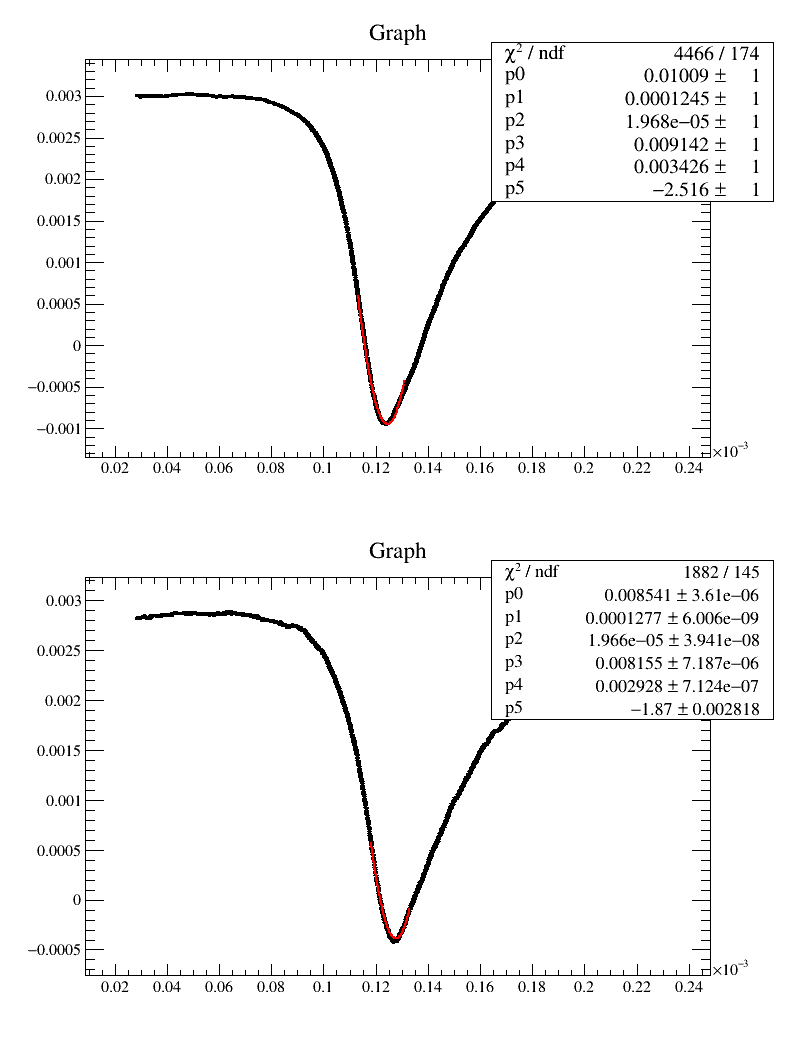
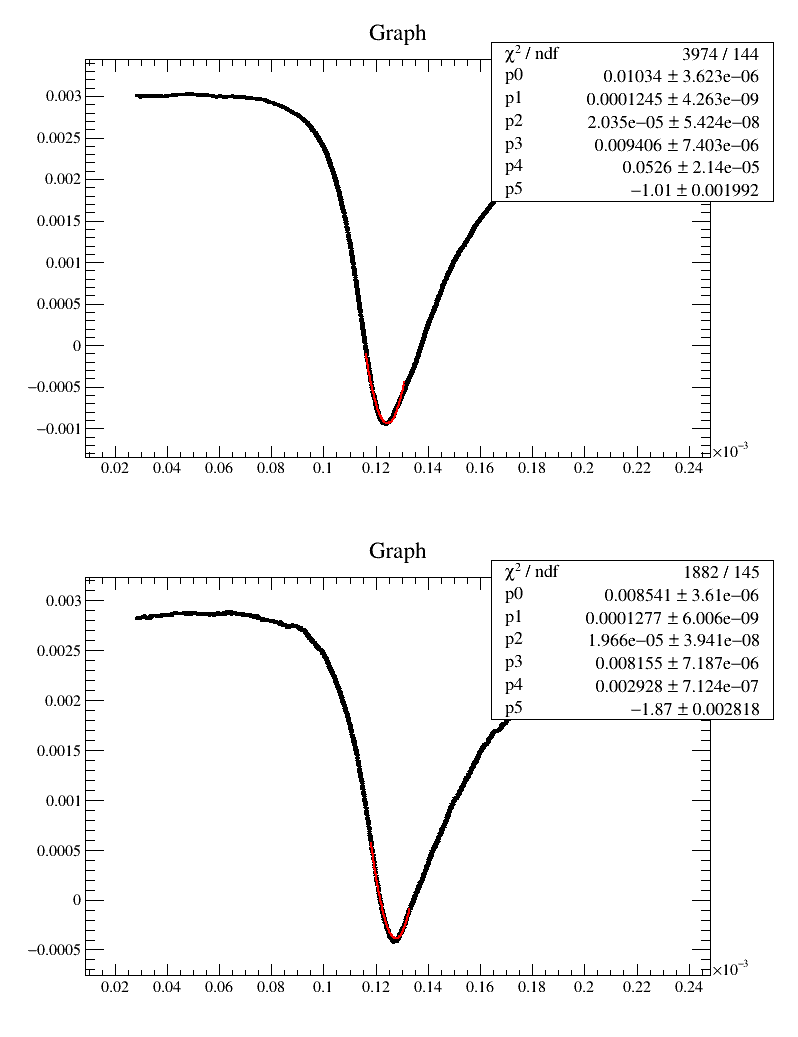
fit range changed

Changed region(s): [[0.7218, 0.0309, 0.9624, 0.1851], [0.6316, 0.0309, 0.7218, 0.1851]]

diff --git a/fit_normal_cdf.py b/fit_normal_cdf.py
@@ -4,6 +4,7 @@ import matplotlib.pyplot as plt
 import ROOT
 import time
 import glob
+import statistics as stat
 
 peak = []
 delta_f_list = []
@@ -20,6 +21,7 @@ for i in range(f_file, l_file+1):
 
 #dir_path = "./peak/100-119/"
 dir_path = "./peak/120-129/normal_cdf/"
+#dir_path = "./peak/120-129/"
 
 Nshift = int(len(file_path)/2)
 
@@ -33,9 +35,10 @@ for i in range(Nshift):
         c.cd(1)
         gr_bf = ROOT.TGraphErrors(len(df_bf.time), np.array(df_bf.time), np.array(df_bf.signal), np.array([0.0 for i in range(len(df_bf.time))]), np.array([Noise for i in range(len(df_bf.time))]))
 
-        bf_fit = ROOT.TF1("f", "[3] - gaus(x,[0],[1],[2])*ROOT::Math::normal_cdf(x, [4], [5])", 0.113*10**(-3), 0.131*10**(-3))
+        #bf_fit = ROOT.TF1("f", "[3] - gaus(x,[0],[1],[2])*ROOT::Math::normal_cdf(x, [4], [5])", 0.113*10**(-3), 0.131*10**(-3))
+        bf_fit = ROOT.TF1("f", "[3] - gaus(x,[0],[1],[2])*ROOT::Math::normal_cdf(x, [4], [5])", 0.116*10**(-3), 0.131*10**(-3))
         #bf_fit.SetParameters(0.006587, 1.247*10**(-4), 1.826*10**(-5), 0.005733, 1, -1)
-        bf_fit.SetParameters(0.008505, 1.23*10**(-4), 1.97*10**(-5), 0.008189, 0.002095, -1.338)
+        bf_fit.SetParameters(0.008505, 1.23*10**(-4), 1.97*10**(-5), 0.008189, 0.002095, -10.0)
         gr_bf.Fit(bf_fit, "QR")
         min = bf_fit.GetMinimumX(0.115*10**(-3), 0.131*10**(-3))
         #print(min)
@@ -57,9 +60,9 @@ for i in range(Nshift):
 
         c.cd(2)
         gr_af = ROOT.TGraphErrors(len(df_af.time), np.array(df_af.time), np.array(df_af.signal), np.array([0.0 for i in range(len(df_af.time))]), np.array([Noise for i in range(len(df_af.time))]))
-        af_fit = ROOT.TF1("f", "[3] - gaus(x,[0],[1],[2])*ROOT::Math::normal_cdf(x, [4], [5])", 0.115*10**(-3), 0.133*10**(-3))
+        af_fit = ROOT.TF1("f", "[3] - gaus(x,[0],[1],[2])*ROOT::Math::normal_cdf(x, [4], [5])", 0.118*10**(-3), 0.133*10**(-3))
         #af_fit.SetParameters(0.006587, 1.247*10**(-4), 1.826*10**(-5), 0.005733, 1, -1)
-        af_fit.SetParameters(0.008505, 1.27*10**(-4), 1.97*10**(-5), 0.008189, 0.002795, -3.27)
+        af_fit.SetParameters(0.008505, 1.27*10**(-4), 1.97*10**(-5), 0.008189, 0.002795, 10.0)
         gr_af.Fit(af_fit, "QR")
         min = af_fit.GetMinimumX(0.118*10**(-3), 0.133*10**(-3))
         peak.append(min)
@@ -91,8 +94,8 @@ for i in range(Nshift):
 
         #bf_fit = ROOT.TF1("f", "[3] - gaus(x,[0],[1],[2])*ROOT::Math::normal_cdf(x, [4], [5])", 0.113*10**(-3), 0.131*10**(-3))
         bf_fit = ROOT.TF1("f", "[3] - gaus(x,[0],[1],[2])*ROOT::Math::normal_cdf(x, [4], [5])", 0.116*10**(-3), 0.131*10**(-3))
-        #bf_fit.SetParameters(0.006587, 1.247*10**(-4), 1.826*10**(-5), 0.005733, 1, -1)
-        bf_fit.SetParameters(0.01, 1.24*10**(-4), 1.97*10**(-5), 0.008189, 0.002095, -1.338)
+        bf_fit.SetParameters(0.006587, 1.247*10**(-4), 1.826*10**(-5), 0.005733, 1, -1)
+        #bf_fit.SetParameters(0.01, 1.24*10**(-4), 1.97*10**(-5), 0.008189, 0.002095, -1.338)
         gr_bf.Fit(bf_fit, "QR")
         min = bf_fit.GetMinimumX(0.115*10**(-3), 0.131*10**(-3))
         #print(min)
@@ -133,7 +136,7 @@ for i in range(Nshift):
 
         c.Update()
 
-        time.sleep(10000)
+        #time.sleep(10000)
         c.SaveAs(dir_path + str(2*i) + "-" + str(2*i+1) + ".png")
 
         delta_t = peak[2*i+1]-peak[2*i]
@@ -156,8 +159,11 @@ gr.GetYaxis().CenterTitle(True)
 gr.GetYaxis().SetTitle("EPR freq. shift [Hz]")
 #ROOT.gStyle.SetOptFit(1)
 gr.Draw("AP")
+ROOT.gStyle.SetOptFit(1)
 #c1 = ROOT.gROOT.FindObject("c1")
 c.Draw("same")
 c.SaveAs(dir_path + "EPR_Freq_Shift.png")
-#time.sleep(10000)
+print(stat.mean(delta_f_list))
+print(stat.stdev(delta_f_list))
+
 

diff --git a/fit_pol2.py b/fit_pol2.py
@@ -4,6 +4,7 @@ import matplotlib.pyplot as plt
 import ROOT
 import time
 import glob
+import statistics as stat
 
 peak = []
 delta_f_list = []
@@ -19,7 +20,7 @@ for i in range(f_file, l_file+1):
     file_path.append(path[0])
 
 #dir_path = "./peak/100-119/"
-dir_path = "./peak/120-129/"
+dir_path = "./peak/120-129/pol2/"
 
 Nshift = int(len(file_path)/2)
 
@@ -33,26 +34,7 @@ for i in range(Nshift):
     c.cd(1)
     gr_bf = ROOT.TGraphErrors(len(df_bf.time), np.array(df_bf.time), np.array(df_bf.signal), np.array([0.0 for i in range(len(df_bf.time))]), np.array([Noise for i in range(len(df_bf.time))]))
 
-    #bf_fit = ROOT.TF1("bff", "[0] + [1]*x + gaus(x, [2], [3], [4])", 0.115*10**(-3), 0.13*10**(-3))
-    #bf_fit.SetParameters(1, 1, -0.004, 0.125*10**(-3), 0.0001)
-
-    #bf_fit = ROOT.TF1("bff", "gaus(x, [0], [1], [2])", 0.1*10**(-3), 0.14*10**(-3))
-    #bf_fit.SetParameters(-0.004, 0.125*10**(-3), 0.0001)
-
-    #bf_fit = ROOT.TF1("f", "[3] - gaus(x,[0],[1],[2])", 0.113*10**(-3), 0.129*10**(-3))
-    #bf_fit.SetParameters(0.006587, 0.1247*10**(-3), 1.826*10**(-5), 0.005733)
-
-    #bf_fit = ROOT.TF1("f", "[3] - gaus(x,[0],[1],[2])*ROOT::Math::normal_cdf([4]*x, 1, 0)", 0.113*10**(-3), 0.135*10**(-3))
-    #bf_fit.SetParameters(0.006587, 0.1247*10**(-3), 1.826*10**(-5), 0.005733, 2000)
-
-    #bf_fit = ROOT.TF1("f", "[3] - gaus(x,[0],[1],[2])*ROOT::Math::normal_cdf(x, [4], [5])", 0.113*10**(-3), 0.131*10**(-3))
-    #bf_fit.SetParameters(0.006587, 1.247*10**(-4), 1.826*10**(-5), 0.005733, 1, -1)
-
     bf_fit = ROOT.TF1("f", "pol2", 0.115*10**(-3), 0.13*10**(-3))
-    #bf_fit = ROOT.TF1("f", "pol2", 0.115*10**(-3), 0.132*10**(-3))
-    #bf_fit = ROOT.TF1("f", "[0] + (x)", 0.113*10**(-3), 0.13*10**(-3))
-    #bf_fit.SetParameters(0.1247*10**(-3), 1, -0.001)
-
     gr_bf.Fit(bf_fit, "QR")
     min = bf_fit.GetMinimumX(0.115*10**(-3), 0.13*10**(-3))
     #print(min)
@@ -61,16 +43,11 @@ for i in range(Nshift):
     peak.append(x0)
     #print(peak)
     gr_bf.Draw("AP")
-    #ROOT.gStyle.SetOptFit(1)
-    #c1 = ROOT.gROOT.FindObject("c1")
-    #c1.SetGridx()
-    #c1.SetGridy()
-    #c1.Draw("same")
     ROOT.gStyle.SetOptFit(1)
     c.SetGridx()
     c.SetGridy()
-    c.Draw("same")
-    gr_bf.Draw("same")
+    c.Draw("P")
+    gr_bf.Draw("P")
     c.Update()
 
     c.cd(2)
@@ -85,16 +62,11 @@ for i in range(Nshift):
     peak.append(x0)
     #print(peak)
     gr_af.Draw("AP")
-    #ROOT.gStyle.SetOptFit(1)
-    #c1 = ROOT.gROOT.FindObject("c1")
-    #c1.SetGridx()
-    #c1.SetGridy()
-    #c1.Draw("same")
     ROOT.gStyle.SetOptFit(1)
     c.SetGridx()
     c.SetGridy()
-    c.Draw("same")
-    gr_af.Draw("same")
+    c.Draw("P")
+    gr_af.Draw("P")
     c.Update()
 
     #time.sleep(1000)
@@ -124,5 +96,5 @@ gr.Draw("AP")
 #c1 = ROOT.gROOT.FindObject("c1")
 c.Draw("same")
 c.SaveAs(dir_path + "EPR_Freq_Shift.png")
-time.sleep(10000)
-
+print(stat.mean(delta_f_list))
+print(stat.stdev(delta_f_list))
